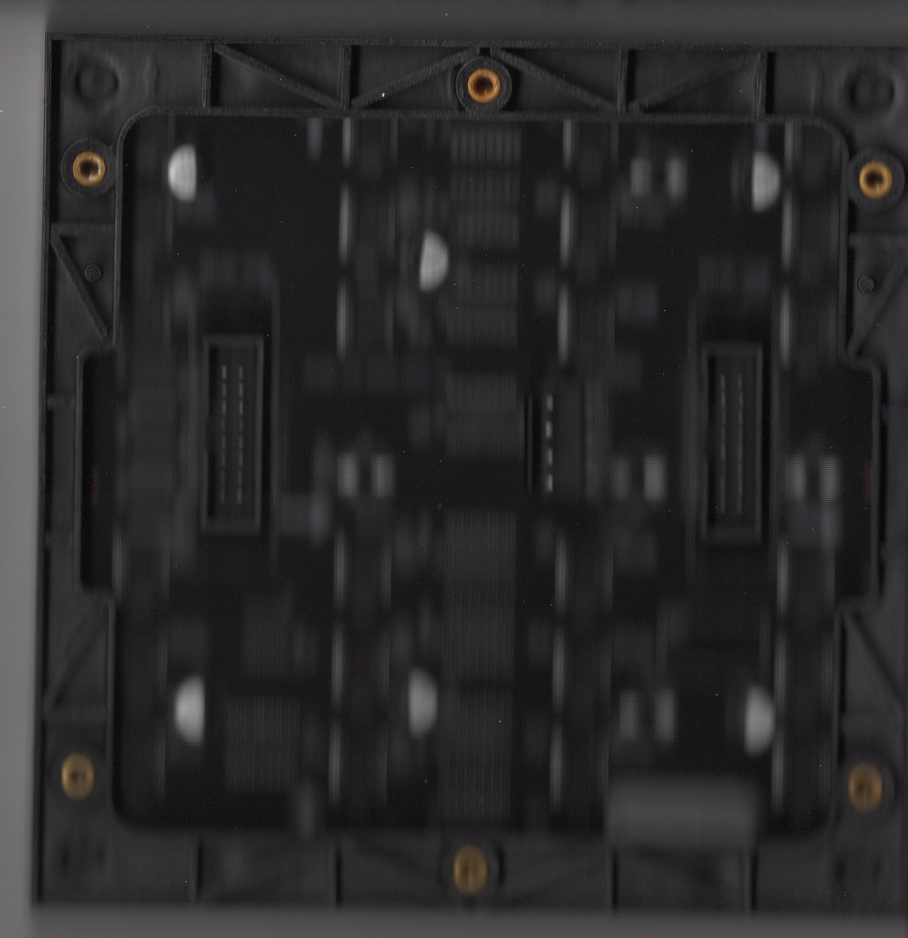
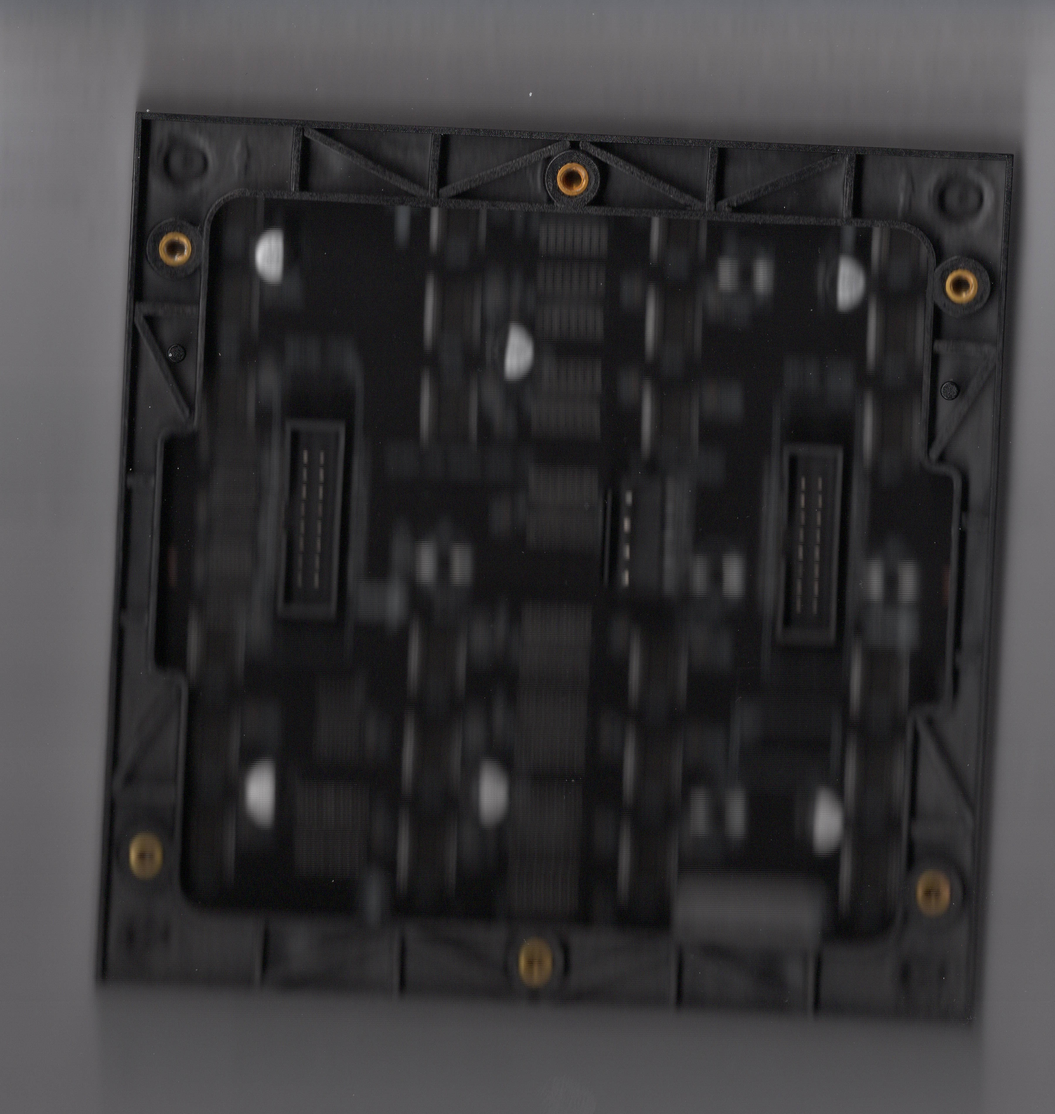
P2 rear: edge-referenced rescan agrees with the 10-03 calipers
Rescanned with paper over the panel so the rim reads dark on light. The panel
rests on its pins, so only the top and left rear edges are on the glass; those
fit to ~20 um and give side inserts 19.47 down / 6.52 in, pins 34.58 down /
7.70 in, mid insert 6.70 down -- all within 0.2 mm of 10-03. The 7 mm right
inset and 20 / 34 on the 10-11 sheet are not borne out. Right and bottom edges
are blurred and only reached via the 127 back.

diff --git a/docs/desktop/enclosure-lasercut.md b/docs/desktop/enclosure-lasercut.md
@@ -403,52 +403,45 @@ measured, and the 50 mm extrapolation in the table is retired.
 #### Flatbed cross-check, 2026-10-11
 
 The back face was scanned at 600 dpi on the Epson
-([`p2-rear-scan-600dpi.jpg`](img/p2-rear-scan-600dpi.jpg), pins up) and a second
-hand-measured sheet was scanned alongside it ([`p2-dims-sheet.png`](img/p2-dims-sheet.png)).
+([`p2-rear-scan-600dpi.jpg`](img/p2-rear-scan-600dpi.jpg), back view, pins up).
+White paper was draped over the panel so the rim reads dark on light. A second
+hand-measured sheet was scanned the same day ([`p2-dims-sheet.png`](img/p2-dims-sheet.png)).
 
-**The datum is the rear outer edge.** The panel has no feature at its centre, so
-the sheet measures everything from the back edges. This scan cannot do that:
-- the dark rim sits against a dark background (grey ~40 vs ~60), so the fitted
-  top edge wanders by 2 mm;
-- the right edge ran off the platen;
-- the left edge is doubled, probably the 127 back plus the 128 front lip.
+**The datum is the rear outer edge**, because the panel has no feature at its
+centre. The scan rests on its pins and tilts, so only two edges sit on the glass:
+- **Top and left:** in focus. Line fits to them are good to about 20 µm.
+- **Bottom and right:** lifted and blurred, so they are not used.
 
-Both caliper sets are edge-referenced, so they compare directly
-([mechanical-plan](mechanical-plan.md) has the 10-03 edge figures):
+Distances to the right and bottom edges therefore assume the back is 127. Hole
+centres come from the brass rings and from circle fits to the pin tips.
 
-| From the rear edge | Calipers 10-03 | Sheet 10-11 |
-|---|---|---|
-| Side inserts, in from the side | 6.5 / 6.5 | 6.5 / **7** |
-| Side inserts, down from top | 19.5 | **20** |
-| Side inserts, up from bottom | 19.5 | not dimensioned |
-| Mid inserts, in from top / bottom | 6.5 | 6.5 |
-| Pins, in from the side | 7.75 | **in line with the side inserts** |
-| Pins, down from top | 34.5 | **34** |
-
-The scan needs no datum to measure the gap *between* holes, and that settles the
-disagreements. These are its centroids with the panel's 0.9° skew removed:
-
-| Hole to hole | 10-03 implies | Sheet implies | Scan |
+| From the rear edge | Calipers 10-03 | Sheet 10-11 | Scan |
 |---|---|---|---|
-| Side insert columns, across | 114 | 113.5 | 113.8, symmetric to 0.1 |
-| Top side-insert row to mid-top insert | 13 | 13.5 | 12.8 |
-| Top side-insert row to pins | 15 | 14 | 15.1 |
-| Pin inboard of its side-insert column | 1.25 | 0 | 0.9 – 1.2 |
-| Mid-top to mid-bottom insert | 114 | 114 | 113.3 |
+| Side inserts, down from top | 19.5 | 20 | **19.47** (19.45 / 19.49) |
+| Side inserts, up from bottom | 19.5 | not dimensioned | 19.8 (127 − 107.18) |
+| Mid inserts, in from top / bottom | 6.5 | 6.5 | **6.70** / 7.07 (127 − 119.93) |
+| Side inserts, in from left | 6.5 | 6.5 | **6.52** (6.69 top, 6.34 bottom) |
+| Side inserts, in from right | 6.5 | 7 | 6.67 (127 − 120.33) |
+| Pins, down from top | 34.5 | 34 | **34.58** (34.54 / 34.62) |
+| Pins, in from left / right | 7.75 | in line with the side inserts | **7.70** / 7.45 (127 − 119.55) |
+| Insert pattern centreline, from left | 63.5 | 63.5 | **63.43** |
 
-On every spacing where the two sheets differ, the scan sides with 10-03, so
-the model stays as it is.
+Bold is measured from an edge that was on the glass. Those figures agree with
+10-03 to 0.2 mm, so the model stays as it is. Where the sheet differs (the 7,
+the 20 and the 34), the scan sides with 10-03.
 
-The scanner's scale is uncalibrated: ~0.2 % would be ~0.25 mm over the pattern.
+Two things limit the scan:
+- **Squareness:** the insert column runs 0.35 mm out of parallel with the left
+  edge over its length. That is either the moulding or the scanner's axes, and
+  a scan cannot tell which.
+- **Scale:** it is not calibrated. Mid-to-mid inserts read 113.2 against 114
+  by calipers, which may mean the scan's top-to-bottom axis is ~0.7 % short.
+  A steel rule laid on the glass in the next scan would settle it.
 
 **Pins: Ø2.83–2.87 by calipers on the shank** (re-measured 10-11), so they are
 made for a nominal Ø3 hole, which is what the brace has. The flatbed sees only
-the tip face that touches the glass, Ø2.2–2.3, so the tips are chamfered.
-
-An edge-referenced scan needs:
-- the panel ~10 mm in from both platen edges;
-- white paper draped over it, so the rim reads dark on white;
-- the in-focus step read at 127, not the blurred shoulder of the 128 front lip.
+the tip face that touches the glass (Ø2.2–2.7 across the two scans), so the tips
+are chamfered.
 
 ### Measured: Waveshare P2.5 64×64 — a real Waveshare rear at last
 
